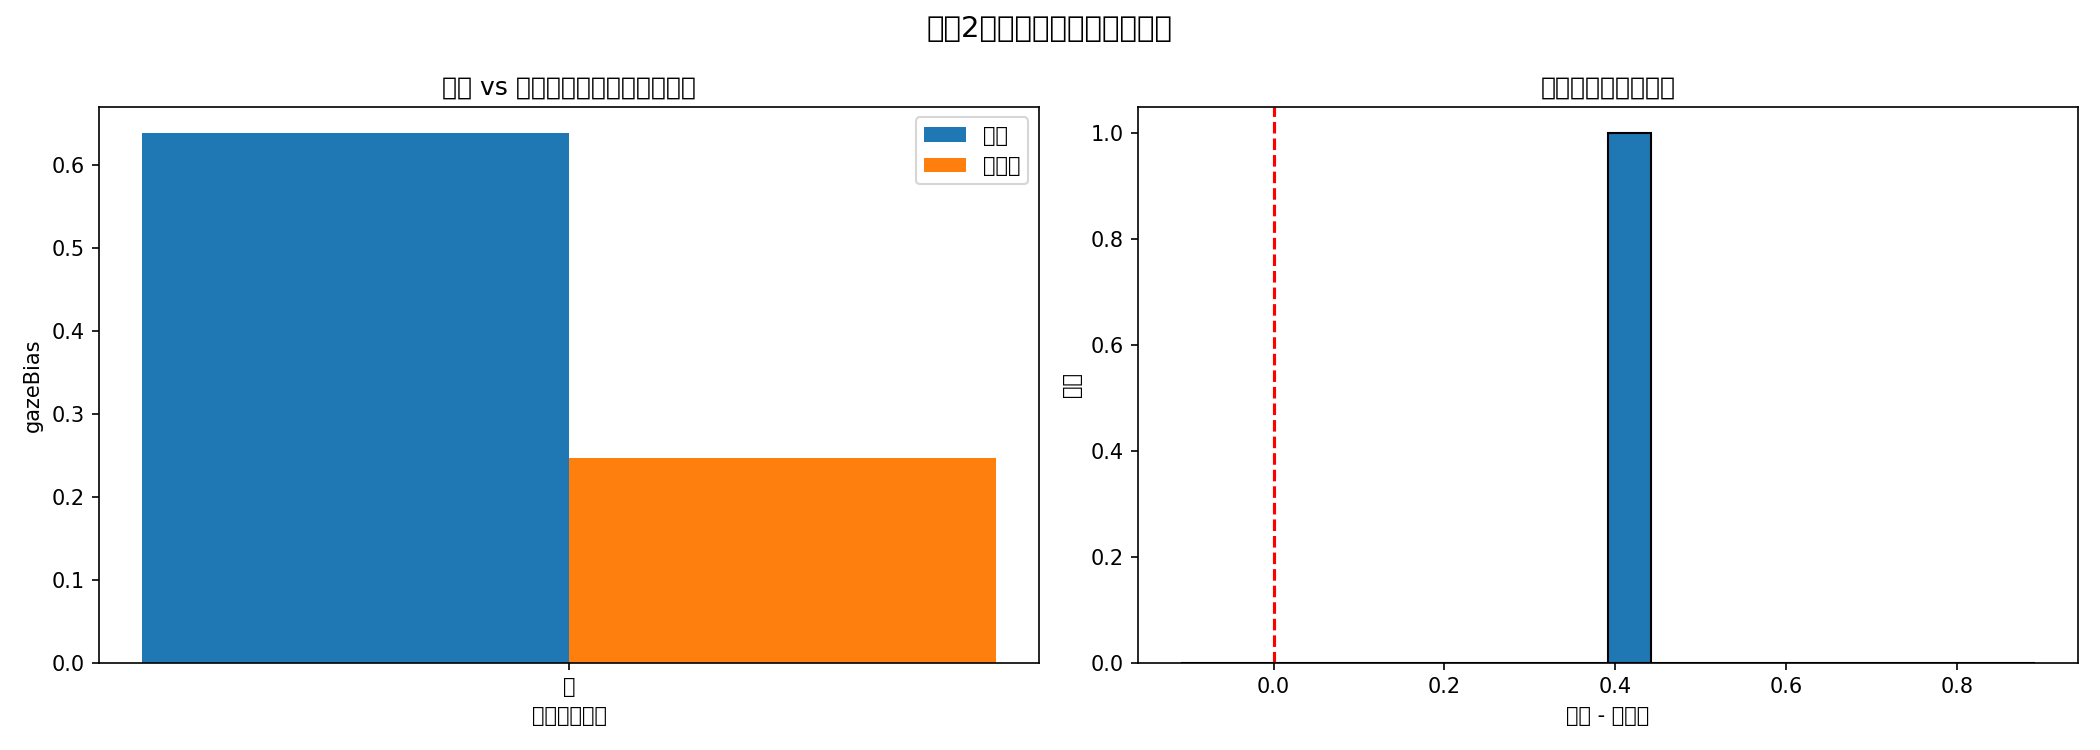
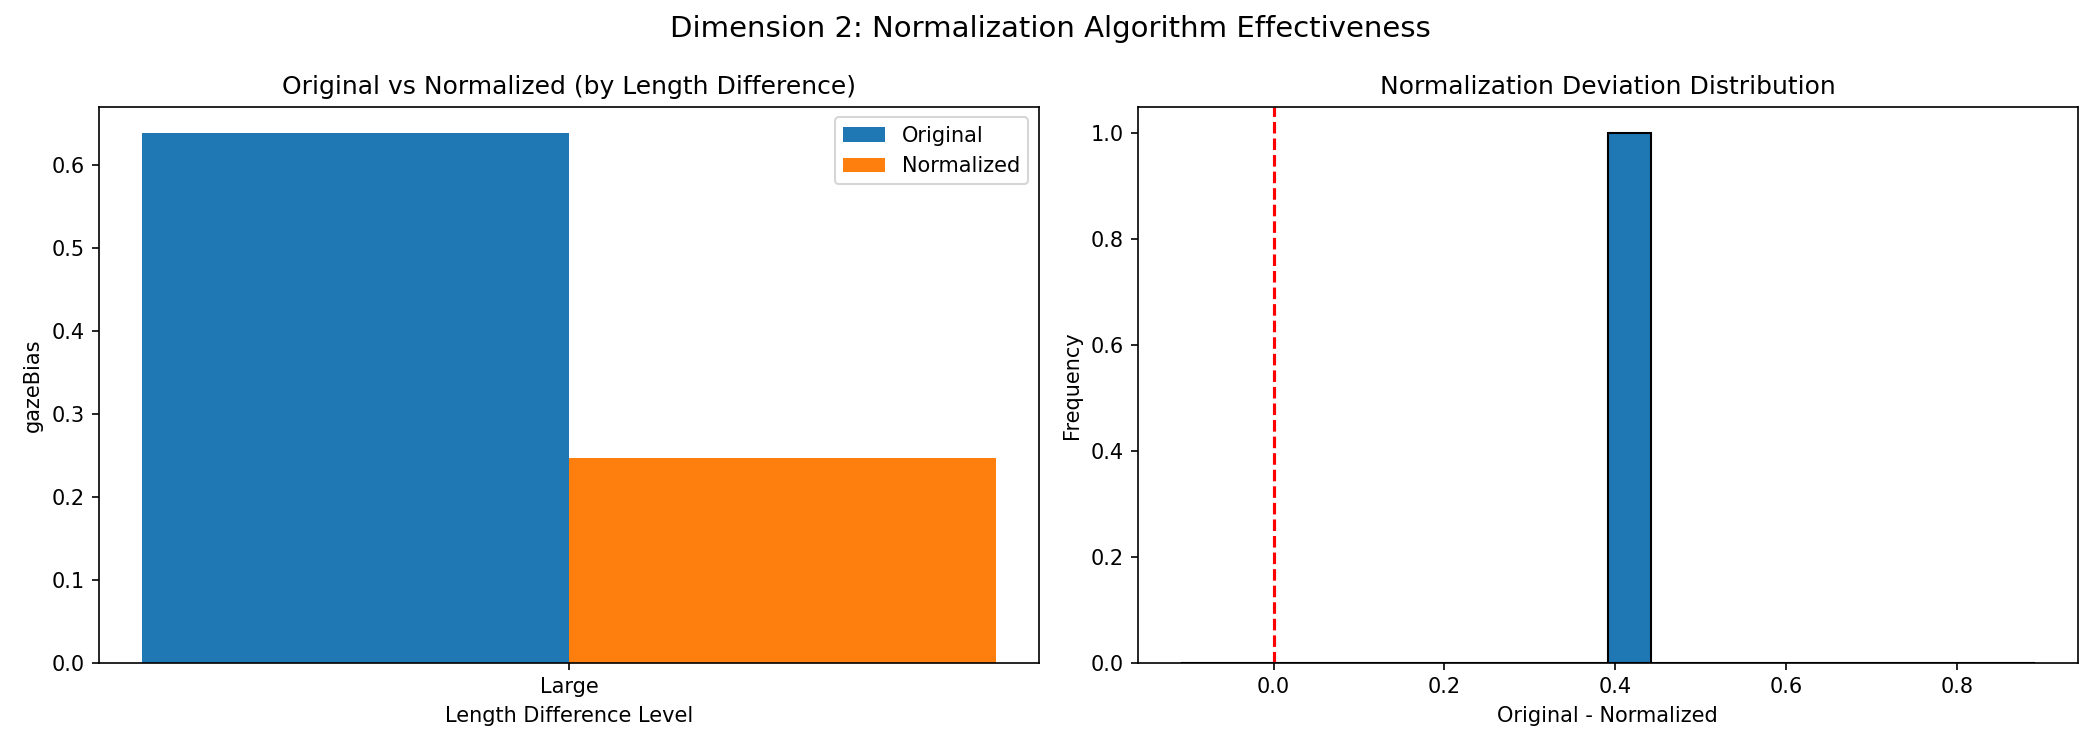
fix: switch chinese to english in figures

diff --git a/scripts/analyze_experiment.py b/scripts/analyze_experiment.py
@@ -30,10 +30,6 @@ import warnings
 
 warnings.filterwarnings("ignore")
 
-# 设置中文字体
-plt.rcParams["font.sans-serif"] = ["SimHei", "DejaVu Sans"]
-plt.rcParams["axes.unicode_minus"] = False
-
 
 class ExperimentAnalyzer:
     """实验数据分析器"""
@@ -271,9 +267,9 @@ class ExperimentAnalyzer:
         self._plot_dimension1(eye_df)
 
     def _plot_dimension1(self, eye_df):
-        """维度1可视化"""
+        """Dimension 1 visualization"""
         fig, axes = plt.subplots(2, 2, figsize=(14, 10))
-        fig.suptitle("维度1：眼动指标有效性验证", fontsize=14)
+        fig.suptitle("Dimension 1: Eye Tracking Metrics Effectiveness", fontsize=14)
 
         ax = axes[0, 0]
         valid = eye_df.dropna(subset=["finalChoice"])
@@ -284,16 +280,16 @@ class ExperimentAnalyzer:
             ax.scatter(valid["time_diff"], valid["choice_numeric"], alpha=0.6)
             ax.set_xlabel("timeOnA - timeOnB (ms)")
             ax.set_ylabel("finalChoice (A=1, B=0)")
-            ax.set_title("时间差异 vs 选择")
+            ax.set_title("Time Difference vs Choice")
             ax.axhline(y=0.5, color="r", linestyle="--", alpha=0.5)
 
         ax = axes[0, 1]
         a_data = eye_df[eye_df["finalChoice"] == "A"]["timeOnA"].dropna()
         b_data = eye_df[eye_df["finalChoice"] == "B"]["timeOnA"].dropna()
         if len(a_data) > 0 and len(b_data) > 0:
-            ax.boxplot([a_data, b_data], labels=["选择A", "选择B"])
+            ax.boxplot([a_data, b_data], labels=["Choice A", "Choice B"])
             ax.set_ylabel("timeOnA (ms)")
-            ax.set_title("timeOnA 分布（按选择分组）")
+            ax.set_title("timeOnA Distribution by Choice")
 
         ax = axes[1, 0]
         corr_cols = ["saccadeCount", "gazeBias", "regressionRate", "decisionLatency"]
@@ -301,7 +297,7 @@ class ExperimentAnalyzer:
         if len(corr_data) > 2:
             corr_matrix = corr_data.corr()
             sns.heatmap(corr_matrix, annot=True, cmap="coolwarm", center=0, ax=ax)
-            ax.set_title("眼动指标相关性热力图")
+            ax.set_title("Eye Metrics Correlation Heatmap")
 
         ax = axes[1, 1]
         reg_a = eye_df[eye_df["finalChoice"] == "A"]["regressionRate"].dropna()
@@ -309,14 +305,14 @@ class ExperimentAnalyzer:
         if len(reg_a) > 0 and len(reg_b) > 0:
             ax.violinplot([reg_a, reg_b], positions=[1, 2])
             ax.set_xticks([1, 2])
-            ax.set_xticklabels(["选择A", "选择B"])
+            ax.set_xticklabels(["Choice A", "Choice B"])
             ax.set_ylabel("regressionRate")
-            ax.set_title("回视率分布（按选择分组）")
+            ax.set_title("Regression Rate Distribution by Choice")
 
         plt.tight_layout()
         plt.savefig(self.figures_dir / "dimension1_eye_effectiveness.png", dpi=150)
         plt.close()
-        print(f"  图表已保存: {self.figures_dir / 'dimension1_eye_effectiveness.png'}")
+        print(f"  Chart saved: {self.figures_dir / 'dimension1_eye_effectiveness.png'}")
         print()
 
     def analyze_dimension2_normalization(self):
@@ -384,19 +380,19 @@ class ExperimentAnalyzer:
         self._plot_dimension2(valid_df)
 
     def _plot_dimension2(self, valid_df):
-        """维度2可视化"""
+        """Dimension 2 visualization"""
         fig, axes = plt.subplots(1, 2, figsize=(14, 5))
-        fig.suptitle("维度2：归一化算法有效性验证", fontsize=14)
+        fig.suptitle("Dimension 2: Normalization Algorithm Effectiveness", fontsize=14)
 
         ax = axes[0]
         if len(valid_df) > 0:
             valid_df["diff_group"] = pd.cut(
                 valid_df["lengthDiff"],
                 bins=[0, 0.5, 1, float("inf")],
-                labels=["小", "中", "大"],
+                labels=["Small", "Medium", "Large"],
             )
             groups, labels = [], []
-            for name in ["小", "中", "大"]:
+            for name in ["Small", "Medium", "Large"]:
                 g = valid_df[valid_df["diff_group"] == name]
                 if len(g) > 0:
                     groups.append(
@@ -406,13 +402,13 @@ class ExperimentAnalyzer:
             if groups:
                 x = np.arange(len(groups))
                 width = 0.35
-                ax.bar(x - width / 2, [g[0] for g in groups], width, label="原始")
-                ax.bar(x + width / 2, [g[1] for g in groups], width, label="归一化")
+                ax.bar(x - width / 2, [g[0] for g in groups], width, label="Original")
+                ax.bar(x + width / 2, [g[1] for g in groups], width, label="Normalized")
                 ax.set_xticks(x)
                 ax.set_xticklabels(labels)
-                ax.set_xlabel("长度差异程度")
+                ax.set_xlabel("Length Difference Level")
                 ax.set_ylabel("gazeBias")
-                ax.set_title("原始 vs 归一化（按长度差异分组）")
+                ax.set_title("Original vs Normalized (by Length Difference)")
                 ax.legend()
 
         ax = axes[1]
@@ -420,14 +416,14 @@ class ExperimentAnalyzer:
             diff = valid_df["gazeBias"] - valid_df["normalizedGazeBias"]
             ax.hist(diff.dropna(), bins=20, edgecolor="black")
             ax.axvline(x=0, color="r", linestyle="--")
-            ax.set_xlabel("原始 - 归一化")
-            ax.set_ylabel("频数")
-            ax.set_title("归一化前后偏差分布")
+            ax.set_xlabel("Original - Normalized")
+            ax.set_ylabel("Frequency")
+            ax.set_title("Normalization Deviation Distribution")
 
         plt.tight_layout()
         plt.savefig(self.figures_dir / "dimension2_normalization.png", dpi=150)
         plt.close()
-        print(f"  图表已保存: {self.figures_dir / 'dimension2_normalization.png'}")
+        print(f"  Chart saved: {self.figures_dir / 'dimension2_normalization.png'}")
         print()
 
     def analyze_dimension3_prediction(self):
@@ -520,17 +516,17 @@ class ExperimentAnalyzer:
         self._plot_dimension4(valid_df)
 
     def _plot_dimension4(self, valid_df):
-        """维度4可视化"""
+        """Dimension 4 visualization"""
         fig, axes = plt.subplots(1, 2, figsize=(14, 5))
-        fig.suptitle("维度4：EMA收敛性分析", fontsize=14)
+        fig.suptitle("Dimension 4: EMA Convergence Analysis", fontsize=14)
 
         ax = axes[0]
         if len(valid_df) > 0:
             ax.plot(valid_df["detail_score"].values, marker="o", label="detail_score")
-            ax.axhline(y=0.5, color="r", linestyle="--", alpha=0.5, label="基准线")
-            ax.set_xlabel("轮次")
-            ax.set_ylabel("score")
-            ax.set_title("detail_score 学习曲线")
+            ax.axhline(y=0.5, color="r", linestyle="--", alpha=0.5, label="Baseline")
+            ax.set_xlabel("Round")
+            ax.set_ylabel("Score")
+            ax.set_title("detail_score Learning Curve")
             ax.legend()
 
         ax = axes[1]
@@ -540,16 +536,16 @@ class ExperimentAnalyzer:
                 marker="o",
                 label="explanation_score",
             )
-            ax.axhline(y=0.5, color="r", linestyle="--", alpha=0.5, label="基准线")
-            ax.set_xlabel("轮次")
-            ax.set_ylabel("score")
-            ax.set_title("explanation_score 学习曲线")
+            ax.axhline(y=0.5, color="r", linestyle="--", alpha=0.5, label="Baseline")
+            ax.set_xlabel("Round")
+            ax.set_ylabel("Score")
+            ax.set_title("explanation_score Learning Curve")
             ax.legend()
 
         plt.tight_layout()
         plt.savefig(self.figures_dir / "dimension4_ema_convergence.png", dpi=150)
         plt.close()
-        print(f"  图表已保存: {self.figures_dir / 'dimension4_ema_convergence.png'}")
+        print(f"  Chart saved: {self.figures_dir / 'dimension4_ema_convergence.png'}")
         print()
 
     def analyze_dimension6_mode_comparison(self):
@@ -605,16 +601,16 @@ class ExperimentAnalyzer:
         self._plot_dimension6()
 
     def _plot_dimension6(self):
-        """维度6可视化"""
+        """Dimension 6 visualization"""
         fig, axes = plt.subplots(1, 2, figsize=(14, 5))
-        fig.suptitle("维度6：模式对比分析", fontsize=14)
+        fig.suptitle("Dimension 6: Mode Comparison Analysis", fontsize=14)
 
         ax = axes[0]
         mode_groups = self.df.groupby("experimentMode")["totalTime"].mean()
         if len(mode_groups) > 0:
             mode_groups.plot(kind="bar", ax=ax)
-            ax.set_ylabel("平均决策时间 (ms)")
-            ax.set_title("各模式平均决策时间")
+            ax.set_ylabel("Avg Decision Time (ms)")
+            ax.set_title("Avg Decision Time by Mode")
             ax.set_xticklabels(ax.get_xticklabels(), rotation=0)
 
         ax = axes[1]
@@ -625,14 +621,14 @@ class ExperimentAnalyzer:
             rates.append((mode_df["finalChoice"] == "A").mean())
         if rates:
             ax.bar(modes, rates)
-            ax.set_ylabel("A选择比例")
-            ax.set_title("各模式A选择比例")
+            ax.set_ylabel("Choice A Rate")
+            ax.set_title("Choice A Rate by Mode")
             ax.set_xticklabels(modes, rotation=0)
 
         plt.tight_layout()
         plt.savefig(self.figures_dir / "dimension6_mode_comparison.png", dpi=150)
         plt.close()
-        print(f"  图表已保存: {self.figures_dir / 'dimension6_mode_comparison.png'}")
+        print(f"  Chart saved: {self.figures_dir / 'dimension6_mode_comparison.png'}")
         print()
 
     def generate_summary_report(self):

diff --git a/scripts/README.md b/scripts/README.md
@@ -1,57 +1,59 @@
-# GazeVibe 实验数据分析脚本
+# GazeVibe Experiment Data Analysis Script
 
-基于实验设计方案，实现6个验证维度的自动化分析。
+Based on the experiment design specification, implements 6 validation dimensions for automated analysis.
 
-## 使用方法
+## Usage
 
 ```bash
-# 一键运行（使用 uv 管理依赖）
+# One-click run (using uv for dependency management)
 ./scripts/run.sh
 ```
 
-## 输出
+## Output
 
-脚本会在终端输出各维度的分析结果，并在 `docs/figures/` 目录下生成可视化图表：
+The script outputs analysis results to the terminal and generates visualization charts in `docs/figures/`:
 
-- `dimension1_eye_effectiveness.png` - 眼动指标有效性验证
-- `dimension2_normalization.png` - 归一化算法有效性验证
-- `dimension4_ema_convergence.png` - EMA收敛性分析
-- `dimension6_mode_comparison.png` - 模式对比分析
+- `dimension1_eye_effectiveness.png` - Eye tracking metrics effectiveness
+- `dimension2_normalization.png` - Normalization algorithm effectiveness
+- `dimension4_ema_convergence.png` - EMA convergence analysis
+- `dimension6_mode_comparison.png` - Mode comparison analysis
 
-## 分析维度
+All charts are in English.
 
-### 维度1：眼动指标有效性验证
+## Analysis Dimensions
 
-- 时间分配指标验证（选择-时间一致性率）
-- 扫视模式指标验证（saccadeCount vs decisionLatency）
-- 认知负荷指标验证（相关性分析）
-- 决策预测指标验证（gazeBias 预测 finalChoice）
+### Dimension 1: Eye Tracking Metrics Effectiveness
 
-### 维度2：归一化算法有效性验证
+- Time allocation metrics (choice-time consistency rate)
+- Saccade pattern metrics (saccadeCount vs decisionLatency)
+- Cognitive load metrics (correlation analysis)
+- Decision prediction metrics (gazeBias predicts finalChoice)
 
-- 长度差异case分析
-- 原始gazeBias vs 归一化后对比
-- 归一化前后一致性率变化
+### Dimension 2: Normalization Algorithm Effectiveness
 
-### 维度3：调整分数预测能力验证
+- Length difference case analysis
+- Original gazeBias vs normalized comparison
+- Consistency rate improvement after normalization
 
-- 单指标预测能力（点二列相关）
-- 调整分数描述性统计
+### Dimension 3: Adjustment Score Prediction Ability
 
-### 维度4：EMA收敛性分析
+- Single indicator prediction ability (point-biserial correlation)
+- Adjustment score descriptive statistics
 
-- 收敛速度分析
-- 收敛后波动范围
+### Dimension 4: EMA Convergence Analysis
 
-### 维度6：模式对比分析
+- Convergence speed analysis
+- Post-convergence fluctuation range
 
-- 行为指标对比（决策时间、选择比例）
-- 眼动指标对比（full vs manual）
-- 统计显著性检验
+### Dimension 6: Mode Comparison Analysis
 
-## 依赖
+- Behavioral metrics comparison (decision time, choice ratio)
+- Eye metrics comparison (full vs manual)
+- Statistical significance testing
 
-使用 uv 自动管理依赖，无需手动安装。依赖项：
+## Dependencies
+
+Dependencies are automatically managed by uv:
 - pandas
 - numpy
 - matplotlib
